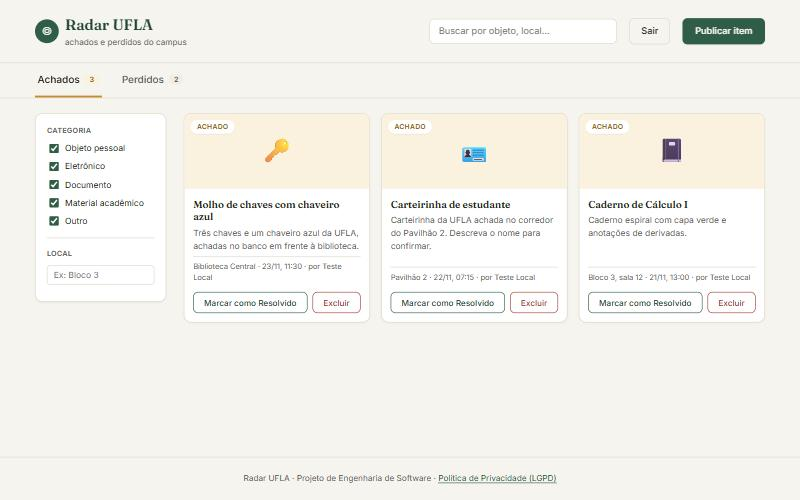
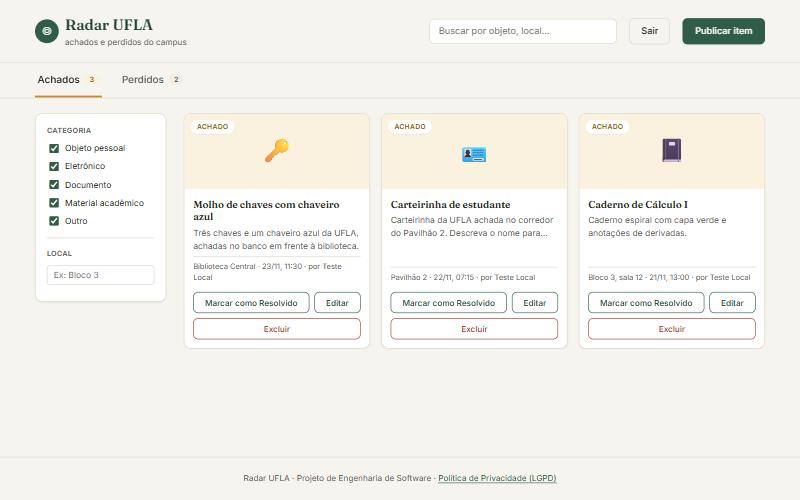
docs(readme): capturas com o botão Editar e o modal de detalhes

diff --git a/README.md b/README.md
@@ -47,11 +47,11 @@
 | --- | --- |
 | ![Vitrine pública com as abas Achados e Perdidos](docs/imagens/vitrine-publica.jpg) | ![Vitrine com os botões Marcar como Resolvido e Excluir](docs/imagens/vitrine-autor.jpg) |
 
-| Publicação de anúncio |
-| --- |
-| ![Formulário de publicação com upload de até 3 fotos](docs/imagens/publicar.jpg) |
+| Publicação de anúncio | Detalhes do anúncio, com o contato para usuários logados |
+| --- | --- |
+| ![Formulário de publicação com upload de até 3 fotos](docs/imagens/publicar.jpg) | ![Modal de detalhes com descrição completa e e-mail do autor](docs/imagens/detalhes-anuncio.jpg) |
 
-Capturas de 23/11/2026, com a API rodando no Docker e dados de demonstração.
+Capturas de 23/11/2026, com a API rodando no Docker e dados de demonstração. Na vitrine do autor aparecem os botões Editar, Marcar como Resolvido e Excluir (`RF-09`).
 
 ## 3. Comece por aqui
 
